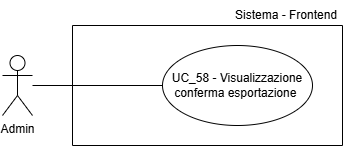
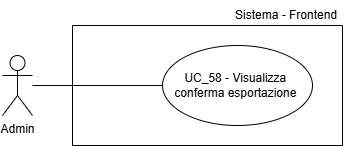
Correzioni minori

Changed region(s): [[0.4913, 0.4932, 0.896, 0.5753]]

diff --git a/src/RTB/Documenti Esterni/Analisi dei Requisiti/content/uc/UC_60.tex b/src/RTB/Documenti Esterni/Analisi dei Requisiti/content/uc/UC_60.tex
@@ -11,16 +11,18 @@
     \item \textbf{Attore$^G$ Principale}: Cliente
 	\item \textbf{Scenario principale}:
 	\begin{enumerate}
-		\item Il sistema mostra al Cliente una notifica di conferma della duplicazione
-		\item Il Cliente visualizza la notifica
+		\item Il Cliente visualizza una notifica di conferma della duplicazione dell'ordine
 	\end{enumerate}
 	\item \textbf{Precondizioni}:
 	\begin{itemize}
+		\item Il sistema è online
+		\item Il Cliente è autenticato
+		\item La sessione chat del Cliente è attiva
 		\item Il Cliente ha confermato la duplicazione dell'ordine tramite chatbot $\rightarrow$ Vedi \hyperref[uc_34]{UC\_34}
 	\end{itemize}
 	\item \textbf{Postcondizioni}:
 	\begin{itemize}
-		\item Il Cliente ha visualizzato la notifica di conferma
+		\item Il Cliente ha visualizzato la notifica di conferma di duplicazione dell'ordine
 	\end{itemize}
-	\item \textbf{Trigger}: Il Cliente vuole visualizzare una notifica di conferma in caso di duplicazione dell'ordine 
+	\item \textbf{Trigger}: Il Cliente vuole visualizzare una notifica di conferma di duplicazione dell'ordine se duplica un ordine tremite chatbot
 \end{itemize}

diff --git a/src/RTB/Documenti Esterni/Analisi dei Requisiti/content/uc/UC_59.tex b/src/RTB/Documenti Esterni/Analisi dei Requisiti/content/uc/UC_59.tex
@@ -12,15 +12,16 @@
 	\item \textbf{Scenario principale}:
 	\begin{enumerate}
 		\item L'Admin visualizza una notifica di creazione Utente riuscita
-		\item L'Admin visualizza la notifica
 	\end{enumerate}
 	\item \textbf{Precondizioni}:
 	\begin{itemize}
+		\item Il sistema è online
+		\item L'Admin è autenticato
 		\item La creazione del nuovo Utente è stata confermata $\rightarrow$ Vedi \hyperref[uc_32]{UC\_32}
 	\end{itemize}
 	\item \textbf{Postcondizioni}:
 	\begin{itemize}
-		\item La notifica di creazione riuscita è stata visualizzata
+		\item La notifica di conferma di creazione dell'Utente è stata visualizzata dall'Admin
 	\end{itemize}
-	\item \textbf{Trigger}: L'Admin visualizza la conferma dell'avvenuta creazione del nuovo Utente
+	\item \textbf{Trigger}: L'Admin vuole visualizzare la conferma dell'avvenuta creazione del nuovo Utente
 \end{itemize}

diff --git a/src/RTB/Documenti Esterni/Analisi dei Requisiti/content/uc/UC_58.tex b/src/RTB/Documenti Esterni/Analisi dei Requisiti/content/uc/UC_58.tex
@@ -1,4 +1,4 @@
-\subsubsection{UC\_58: Visualizzazione conferma esportazione}
+\subsubsection{UC\_58: Visualizza conferma esportazione}
 \label{uc_58}
 
 \begin{figure}[H]
@@ -16,6 +16,8 @@
 	\end{enumerate}
 	\item \textbf{Precondizioni}:
 	\begin{itemize}
+		\item Il sistema è online
+		\item L'Admin è autenticato
 		\item L'Admin ha completato il download del file JSON$^G$ $\rightarrow$ Vedi \hyperref[uc_30]{UC\_30}
 		\item Il file JSON$^G$ è stato generato correttamente
 	\end{itemize}
@@ -23,5 +25,5 @@
 	\begin{itemize}
 		\item L'Admin visualizza la notifica di download riuscito
 	\end{itemize}
-	\item \textbf{Trigger}: Il sistema conferma il completamento dell'operazione di esportazione
+	\item \textbf{Trigger}: L'Admin vuole visualizzare la conferma del completamento dell'operazione di esportazione
 \end{itemize}

diff --git a/src/RTB/Documenti Esterni/Analisi dei Requisiti/content/uc/UC_54.tex b/src/RTB/Documenti Esterni/Analisi dei Requisiti/content/uc/UC_54.tex
@@ -19,15 +19,11 @@
 		\item Il Cliente è autenticato
 		\item La sessione chat del Cliente è attiva
 		\item Sono presenti articoli nel carrello
-		\item Il Cliente richiede l'invio dell'ordine tramite carrello
+		\item Il Cliente richiede l'invio dell'ordine tramite carrello $\rightarrow$ Vedi \hyperref[uc_53]{UC\_53}
 	\end{itemize}
 	\item \textbf{Postcondizioni}:
 	\begin{itemize}
 		\item Il Cliente visualizza la conferma dell'invio dell'ordine
 	\end{itemize}
-	\item \textbf{Inclusioni}:
-	\begin{itemize}
-		\item \hyperref[uc_54]{UC\_54}
-	\end{itemize}
-    \item \textbf{Trigger}: Il Cliente dopo aver inviato l'ordine dal carrello visualizza una notifica
+    \item \textbf{Trigger}: Il Cliente dopo aver inviato l'ordine dal carrello vuole visualizzare una notifica di conferma di invio dell'ordine
 \end{itemize}

diff --git a/src/RTB/Documenti Esterni/Analisi dei Requisiti/content/uc/UC_57.tex b/src/RTB/Documenti Esterni/Analisi dei Requisiti/content/uc/UC_57.tex
@@ -15,11 +15,14 @@
 	\end{enumerate}
 	\item \textbf{Precondizioni}:
 	\begin{itemize}
+		\item Il sistema è online
+		\item Il Cliente è autenticato
+		\item La sessione chat del Cliente è attiva
 		\item Il Cliente ha inviato la segnalazione $\rightarrow$ Vedi \hyperref[uc_24.3]{UC\_24.3}
 	\end{itemize}
 	\item \textbf{Postcondizioni}:
 	\begin{itemize}
-		\item Il sistema ha confermato l'avvenuta registrazione della segnalazione
+		\item Il Cliente visualizza la conferma dell'avvenuta registrazione della segnalazione
 	\end{itemize}
 	\item \textbf{Trigger}: Il Cliente vuole visualizzare una notifica di conferma di invio segnalazione
 \end{itemize}

diff --git a/src/RTB/Documenti Esterni/Analisi dei Requisiti/content/uc/UC_56.tex b/src/RTB/Documenti Esterni/Analisi dei Requisiti/content/uc/UC_56.tex
@@ -16,11 +16,14 @@
 	\end{enumerate}
 	\item \textbf{Precondizioni}:
 	\begin{itemize}
+		\item Il sistema è online
+		\item Il Cliente è autenticato
+		\item La sessione chat del Cliente è attiva
 		\item Il Cliente ha inviato il feedback $\rightarrow$ Vedi \hyperref[uc_23.3]{UC\_23.3}
 	\end{itemize}
 	\item \textbf{Postcondizioni}:
 	\begin{itemize}
-		\item Il sistema ha confermato l'avvenuta registrazione del feedback
+		\item Il Cliente visualizza la conferma dell'avvenuta registrazione del feedback
 	\end{itemize}
 	\item \textbf{Trigger}: Il Cliente vuole visualizzare una notifica di conferma di invio del feedback
 \end{itemize}

diff --git a/src/RTB/Documenti Esterni/Analisi dei Requisiti/content/uc/UC_55.tex b/src/RTB/Documenti Esterni/Analisi dei Requisiti/content/uc/UC_55.tex
@@ -15,6 +15,9 @@
 	\end{enumerate}
 	\item \textbf{Precondizioni}:
 	\begin{itemize}
+		\item Il sistema è online
+		\item Il Cliente è autenticato
+		\item La sessione chat del Cliente è attiva
 		\item Il Cliente ha richiesto l'annullamento del processo$^G$ di disambiguazione $\rightarrow$ Vedi \hyperref[uc_22.1]{UC\_22.1}
 	\end{itemize}
 	\item \textbf{Postcondizioni}:
